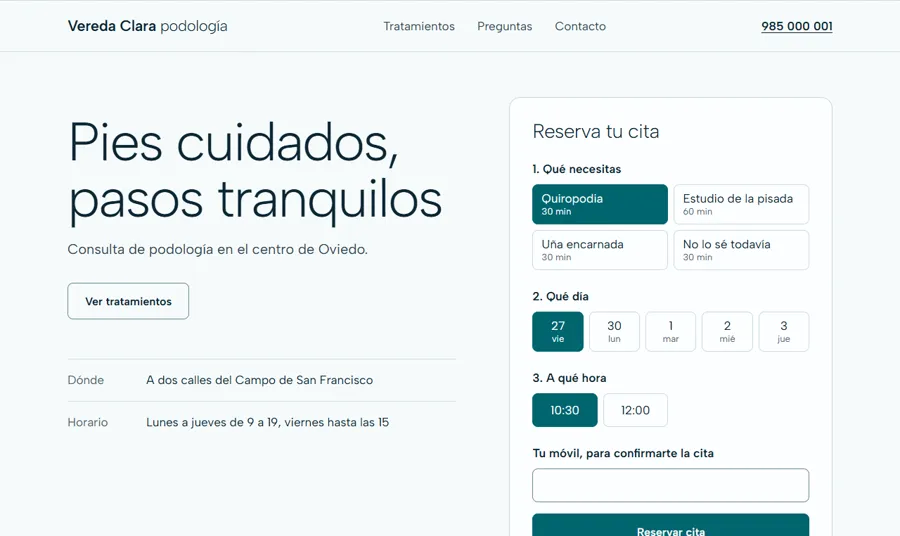
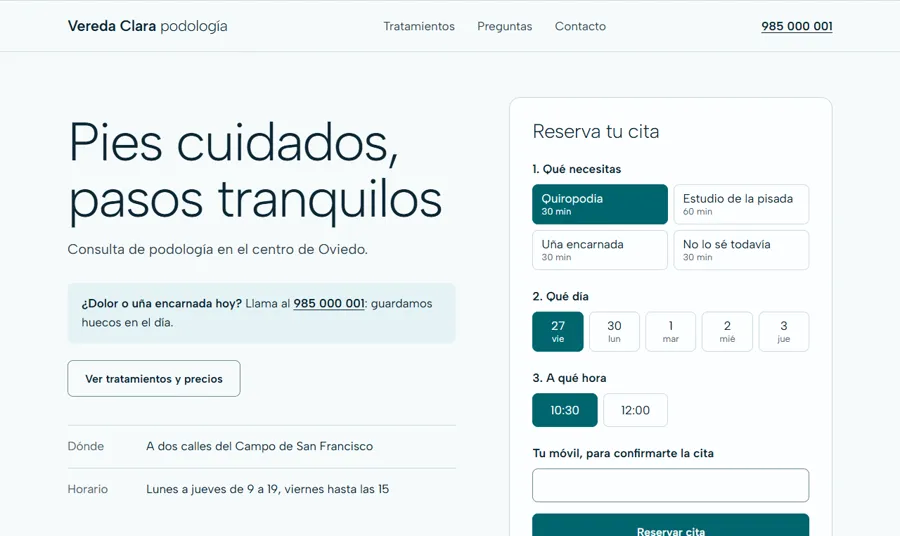
Publicar webs de ejemplo

diff --git a/fisio/index.html b/fisio/index.html
@@ -57,42 +57,21 @@
 
     <section class="zonas" aria-labelledby="zonas-t">
       <div class="wrap">
-        <h2 id="zonas-t">¿Dónde te molesta?</h2>
-        <p class="lead">Elige una zona y mira cómo la solemos trabajar.</p>
-        <div class="chips" role="tablist" aria-label="Zona del cuerpo" hidden>
-          <button type="button" role="tab" id="t-lumbar" aria-controls="z-lumbar" aria-selected="true">Zona lumbar</button>
-          <button type="button" role="tab" id="t-cuello" aria-controls="z-cuello" aria-selected="false" tabindex="-1">Cuello</button>
-          <button type="button" role="tab" id="t-hombro" aria-controls="z-hombro" aria-selected="false" tabindex="-1">Hombro</button>
-          <button type="button" role="tab" id="t-rodilla" aria-controls="z-rodilla" aria-selected="false" tabindex="-1">Rodilla</button>
-          <button type="button" role="tab" id="t-pelvis" aria-controls="z-pelvis" aria-selected="false" tabindex="-1">Suelo pélvico</button>
-        </div>
-        <div class="panels">
-          <article class="panel" id="z-lumbar">
-            <h3>Lumbago, ciática y la espalda de oficina</h3>
-            <p>Primero bajamos el dolor con terapia manual. Después, tres o cuatro ejercicios para casa que caben en diez minutos, para que no vuelva cada dos meses.</p>
-            <a class="btn" href="https://wa.me/34600000000?text=Hola%2C%20me%20duele%20la%20zona%20lumbar%20y%20quer%C3%ADa%20cita." rel="noopener">Pedir cita para la lumbar</a>
-          </article>
-          <article class="panel" id="z-cuello">
-            <h3>Cervicales cargadas, dolor de cabeza y mandíbula</h3>
-            <p>Valoramos cuello, hombros y mordida juntos. Muchas cefaleas que parecen de la vista vienen de aquí.</p>
-            <a class="btn" href="https://wa.me/34600000000?text=Hola%2C%20tengo%20molestias%20en%20el%20cuello%20y%20quer%C3%ADa%20cita." rel="noopener">Pedir cita para el cuello</a>
-          </article>
-          <article class="panel" id="z-hombro">
-            <h3>Cuando levantar el brazo ya se nota</h3>
-            <p>Tendinopatías, hombro congelado o recuperación tras una operación. Vamos subiendo carga poco a poco y medimos cuánto recorrido ganas.</p>
-            <a class="btn" href="https://wa.me/34600000000?text=Hola%2C%20me%20molesta%20el%20hombro%20y%20quer%C3%ADa%20cita." rel="noopener">Pedir cita para el hombro</a>
-          </article>
-          <article class="panel" id="z-rodilla">
-            <h3>Rodillas de correr, de escaleras y de quirófano</h3>
-            <p>Si sales a correr por el Naranco o vienes de una rotura de ligamento, preparamos la vuelta por fases y con fechas realistas.</p>
-            <a class="btn" href="https://wa.me/34600000000?text=Hola%2C%20es%20la%20rodilla%2C%20quer%C3%ADa%20cita." rel="noopener">Pedir cita para la rodilla</a>
-          </article>
-          <article class="panel" id="z-pelvis">
-            <h3>Embarazo, posparto y pérdidas</h3>
-            <p>En una sala aparte y sin prisa. Te explicamos cada paso antes de hacerlo y tú decides hasta dónde.</p>
-            <a class="btn" href="https://wa.me/34600000000?text=Hola%2C%20quer%C3%ADa%20una%20valoraci%C3%B3n%20de%20suelo%20p%C3%A9lvico." rel="noopener">Pedir valoración</a>
-          </article>
-        </div>
+        <dl class="datos">
+          <div><dt>Primera visita</dt><dd>45 €</dd></div>
+          <div><dt>Dura</dt><dd>Una hora</dd></div>
+          <div><dt>Volante médico</dt><dd>No hace falta</dd></div>
+        </dl>
+        <h2 id="zonas-t">Por lo que más nos llaman</h2>
+        <ul class="motivos">
+          <li><h3>Lumbago y ciática</h3><p>Bajar el dolor y que no vuelva cada dos meses.</p></li>
+          <li><h3>Cuello y dolor de cabeza</h3><p>Muchas horas de pantalla, mandíbula apretada.</p></li>
+          <li><h3>Hombro y rodilla</h3><p>Tendones, esguinces y vuelta tras una operación.</p></li>
+          <li><h3>Lesiones de correr</h3><p>Volver a entrenar por fases y con fechas realistas.</p></li>
+          <li><h3>Embarazo y posparto</h3><p>Suelo pélvico, en sala aparte y sin prisa.</p></li>
+          <li><h3>Personas mayores</h3><p>Equilibrio, cadera y visitas a domicilio.</p></li>
+        </ul>
+        <a class="btn" href="https://wa.me/34600000000?text=Hola%2C%20quer%C3%ADa%20saber%20si%20pod%C3%A9is%20tratar%20lo%20m%C3%ADo." rel="noopener">¿Lo tuyo no está? Pregúntanos</a>
       </div>
     </section>
 
@@ -194,7 +173,7 @@
     <div class="wrap">
       <p class="brand">Antojana<span>fisioterapia y osteopatía</span></p>
       <p>Calle de la Antojana, 4, Oviedo. <a href="mailto:hola@example.com">hola@example.com</a></p>
-      <p>Web de ejemplo hecha por Darío Morales. Antojana no existe: nombres, teléfonos, precios y reseñas son inventados. En la web real irían el aviso legal y la privacidad.</p>
+      <p>Web de ejemplo hecha por Darío Morales Riega. Antojana no existe: nombres, teléfonos, precios y reseñas son inventados. En la web real irían el aviso legal y la privacidad.</p>
       <p class="credits" data-credits>Fotografías: <a href="https://commons.wikimedia.org/wiki/File:Ostentrop_Germany_Chanchai-Thaimassage-10.jpg">CEphoto, Uwe Aranas (CC BY-SA 3.0)</a>, <a href="https://commons.wikimedia.org/wiki/File:Ostentrop_Germany_Chanchai-Thaimassage-05.jpg">CEphoto, Uwe Aranas (CC BY-SA 3.0)</a>. Redimensionadas y recortadas.</p>
     </div>
   </footer>

diff --git a/fisio/styles.css b/fisio/styles.css
@@ -1,4 +1,4 @@
-/* Hallmark · custom · genre: editorial · Antojana (fisio) · warm cream, terracotta, moss · Young Serif + Figtree · hero: stage with arched photo · signature: body-zone switcher */
+/* Hallmark · custom · genre: editorial · Antojana (fisio) · warm cream, terracotta, moss · Young Serif + Figtree · hero: stage with arched photo · signature: arched photo and warm bands */
 @font-face { font-family: "Young Serif"; src: url("fonts/youngserif-400.woff2") format("woff2"); font-weight: 400; font-display: swap; }
 @font-face { font-family: "Figtree"; src: url("fonts/figtree-400_700.woff2") format("woff2"); font-weight: 400 700; font-display: swap; }
 
@@ -71,19 +71,13 @@ a:focus-visible, button:focus-visible, [tabindex]:focus-visible { outline: 3px s
 .arch img { object-position: 50% 55%; }
 
 .zonas { background: var(--color-paper-2); padding-block: var(--section); }
-.chips { display: flex; flex-wrap: wrap; gap: 10px; margin-top: 40px; }
-.chips[hidden] { display: none; }
-.chips button { min-height: 48px; padding: 0 22px; border-radius: var(--radius-pill); border: 2px solid var(--color-rule); background: var(--color-card); color: var(--color-ink); font: 600 1rem var(--font-body); cursor: pointer; transition: background-color 180ms var(--ease-out); }
-.chips button:hover { border-color: var(--color-accent); }
-.chips button[aria-selected="true"] { background: var(--color-moss); border-color: var(--color-moss); color: var(--color-accent-ink); }
-.panels { display: grid; gap: 16px; margin-top: 24px; }
-.panel { background: var(--color-card); border-radius: var(--radius-card); padding: clamp(24px, 4vw, 48px); }
-.panel h3 { font-size: clamp(1.5rem, 2.8vw, 2.2rem); max-width: 26ch; }
-.panel p { margin-top: 16px; max-width: 58ch; font-size: 1.15rem; }
-.panel .btn { margin-top: 28px; }
-.js .panel { animation: settle 320ms var(--ease-out); }
-.panel[hidden] { display: none; }
-@keyframes settle { from { opacity: 0; transform: translateY(8px); } }
+.datos { display: grid; grid-template-columns: repeat(3, minmax(0, 1fr)); gap: 16px; margin: 0 0 64px; }
+.datos div { background: var(--color-card); border-radius: var(--radius-card); padding: 24px; }
+.datos dt { color: var(--color-muted); }
+.datos dd { margin: 4px 0 0; font: 400 clamp(1.6rem, 3vw, 2.4rem)/1.2 var(--font-display); color: var(--color-ink); }
+.motivos { list-style: none; padding: 0; margin: 40px 0; display: grid; grid-template-columns: repeat(3, minmax(0, 1fr)); column-gap: 40px; }
+.motivos li { border-top: 2px solid var(--color-rule); padding-block: 20px 28px; }
+.motivos p { margin-top: 8px; }
 
 .split { display: grid; grid-template-columns: minmax(0, 5fr) minmax(0, 7fr); gap: clamp(32px, 6vw, 96px); align-items: start; }
 .tarifas { padding-block: var(--section); }
@@ -152,7 +146,7 @@ address { font: 400 1.5rem/1.45 var(--font-display); color: var(--color-ink); ma
   .hero__in, .split { grid-template-columns: minmax(0, 1fr); }
   .hero__in { gap: 40px; }
   .arch { justify-self: center; max-height: none; min-height: 0; }
-  .people, .steps, .quotes { grid-template-columns: minmax(0, 1fr); }
+  .datos, .motivos, .people, .steps, .quotes { grid-template-columns: minmax(0, 1fr); }
   .quote--big { grid-row: auto; }
   .photo { aspect-ratio: 4 / 3; }
   .bar { display: grid; grid-template-columns: 1fr 1fr; gap: 8px; position: fixed; inset: auto 0 0 0; z-index: 300; padding: 10px 12px calc(10px + env(safe-area-inset-bottom)); background: var(--color-card); border-top: 1px solid var(--color-rule); }
@@ -160,6 +154,5 @@ address { font: 400 1.5rem/1.45 var(--font-display); color: var(--color-ink); ma
 }
 @media (prefers-reduced-motion: reduce) {
   html { scroll-behavior: auto; }
-  .js .panel { animation: none; }
-  .btn, .chips button { transition: none; }
+  .btn { transition: none; }
 }

diff --git a/reformas/index.html b/reformas/index.html
@@ -29,6 +29,7 @@
       <a class="brand" href="#contenido">Llábana <span>reformas</span></a>
       <nav aria-label="Principal">
         <a href="#obras">Obras</a>
+        <a href="#precios">Precios</a>
         <a href="#proceso">Cómo trabajamos</a>
         <a href="#zonas">Zonas</a>
       </nav>
@@ -99,6 +100,31 @@
             <p>El suelo que no se ve es el que hace que no suene una baldosa dentro de cinco años.</p>
             <a class="btn" href="#presupuesto">Cuéntanos tu obra</a>
           </div>
+        </div>
+      </div>
+    </section>
+
+    <section class="prices" id="precios" aria-labelledby="pr-t">
+      <div class="wrap two">
+        <div>
+          <h2 id="pr-t">Cuánto cuesta</h2>
+          <p class="lead">Precios de ejemplo para que te hagas una idea.</p>
+          <dl class="from">
+            <div><dt>Baño completo</dt><dd>desde 4.800 €</dd></div>
+            <div><dt>Cocina</dt><dd>desde 8.500 €</dd></div>
+            <div><dt>Piso entero</dt><dd>desde 850 €/m²</dd></div>
+          </dl>
+        </div>
+        <div class="includes">
+          <h3>En el presupuesto, por escrito</h3>
+          <ul>
+            <li>Cada partida con su precio</li>
+            <li>Qué materiales entran y de qué calidad</li>
+            <li>Lo que no está incluido, para que no haya sorpresas</li>
+            <li>Fecha de inicio y de entrega</li>
+            <li>Licencia o comunicación al ayuntamiento, la tramitamos nosotros</li>
+            <li>Retirada de escombros y limpieza final</li>
+          </ul>
         </div>
       </div>
     </section>
@@ -192,7 +218,7 @@
   <footer class="foot">
     <div class="wrap">
       <p class="brand">Llábana <span>reformas</span></p>
-      <p>Web de ejemplo hecha por Darío Morales. Llábana no existe: nombre, dirección, teléfonos, obras y plazos son inventados. En la web real irían el aviso legal y la privacidad.</p>
+      <p>Web de ejemplo hecha por Darío Morales Riega. Llábana no existe: nombre, dirección, teléfonos, obras y plazos son inventados. En la web real irían el aviso legal y la privacidad.</p>
       <p class="credits" data-credits>Fotografías: <a href="https://commons.wikimedia.org/wiki/File:Kitchen_layout_inside_new_two-bedroom_seasonal_housing_unit_(50343213866).jpg">YellowstoneNPS</a> (cocina), <a href="https://commons.wikimedia.org/wiki/File:Seasonal_employee_housing_bathroom_before_renovation_(50014558717).jpg">YellowstoneNPS</a> (antes), <a href="https://commons.wikimedia.org/wiki/File:Seasonal_employee_housing_bathroom_after_renovation_(50014557962).jpg">YellowstoneNPS</a> (después), las tres de dominio público; <a href="https://commons.wikimedia.org/wiki/File:Modern_kitchen_and_dining_area_in_a_simple_home_setting_showing_light_colors_and_minimal_decor.jpg">Shixart1985</a> (CC BY 2.0); <a href="https://commons.wikimedia.org/wiki/File:Using_a_trowel_to_lay_floor_tiles.jpg">Francisco Gonzalez</a> (CC BY 2.0); <a href="https://commons.wikimedia.org/wiki/File:US_Navy_070721-N-9195K-055_Steelworker_3rd_Class_Jason_Tinkman_of_Navy_Mobile_Construction_Battalion_(NMCB)_7_lays_down_grout_before_placing_floor_tiles_during_an_engineering_civic_action_program_conducted_at_An_Khe_Clinic_in_s.jpg">U.S. Navy</a> (dominio público). Redimensionadas y recortadas.</p>
     </div>
   </footer>

diff --git a/index.html b/index.html
@@ -67,7 +67,7 @@
           <p>Limpia y serena: reserva online lo primero y las dudas resueltas.</p>
           <details>
             <summary>Por qué está hecha así</summary>
-            <dl><div><dt>Reservar es lo primero que se ve</dt><dd>Cuantos menos pasos, más citas. Y quien busca de noche reserva sin esperar a que abráis.</dd></div><div><dt>Tratamientos con su nombre</dt><dd>«Uña encarnada» o «estudio de la pisada» es lo que la gente escribe en Google.</dd></div><div><dt>Preguntas frecuentes</dt><dd>Quitan el miedo antes de venir y ahorran llamadas repetidas.</dd></div><div><dt>Colores claros y letra grande</dt><dd>Transmite limpieza y se lee bien a cualquier edad.</dd></div></dl>
+            <dl><div><dt>Reservar es lo primero que se ve</dt><dd>Cuantos menos pasos, más citas. Y quien busca de noche reserva sin esperar a que abráis.</dd></div><div><dt>Aviso para urgencias</dt><dd>Quien tiene dolor hoy no reserva para la semana que viene: llama.</dd></div><div><dt>Tratamientos con su nombre</dt><dd>«Uña encarnada» o «estudio de la pisada» es lo que la gente escribe en Google.</dd></div><div><dt>Preguntas frecuentes</dt><dd>Quitan el miedo antes de venir y ahorran llamadas repetidas.</dd></div><div><dt>Colores claros y letra grande</dt><dd>Transmite limpieza y se lee bien a cualquier edad.</dd></div></dl>
           </details>
           <a class="work__go" href="podologia/index.html">Abrir la web</a>
         </div>
@@ -79,7 +79,7 @@
           <p>Sólida y visual: antes y después, zonas y petición de presupuesto.</p>
           <details>
             <summary>Por qué está hecha así</summary>
-            <dl><div><dt>Antes y después</dt><dd>Nadie contrata una reforma sin ver cómo quedan las obras.</dd></div><div><dt>Presupuesto sin llamar</dt><dd>Muchos comparan por la noche. El formulario recoge lo justo para saber si la obra encaja.</dd></div><div><dt>Zonas donde trabajáis</dt><dd>Evita llamadas de fuera y ayuda a salir al buscar «reformas» más el nombre del concejo.</dd></div><div><dt>Cómo se trabaja, paso a paso</dt><dd>El miedo en una obra son los retrasos y los extras. Explicarlo genera confianza.</dd></div></dl>
+            <dl><div><dt>Antes y después</dt><dd>Nadie contrata una reforma sin ver cómo quedan las obras.</dd></div><div><dt>Precios «desde» y qué incluye</dt><dd>El miedo es al sobrecoste. Decirlo claro filtra curiosos y da confianza.</dd></div><div><dt>Presupuesto sin llamar</dt><dd>Muchos comparan por la noche. El formulario recoge lo justo para saber si la obra encaja.</dd></div><div><dt>Zonas donde trabajáis</dt><dd>Evita llamadas de fuera y ayuda a salir al buscar «reformas» más el nombre del concejo.</dd></div><div><dt>Cómo se trabaja, paso a paso</dt><dd>El miedo en una obra son los retrasos y los extras. Explicarlo genera confianza.</dd></div></dl>
           </details>
           <a class="work__go" href="reformas/index.html">Abrir la web</a>
         </div>

diff --git a/podologia/index.html b/podologia/index.html
@@ -42,7 +42,8 @@
         <div class="hero__text">
           <h1>Pies cuidados, pasos tranquilos</h1>
           <p class="lead">Consulta de podología en el centro de Oviedo.</p>
-          <a class="btn btn--quiet" href="#tratamientos">Ver tratamientos</a>
+          <p class="urgent"><strong>¿Dolor o uña encarnada hoy?</strong> Llama al <a href="tel:+34985000001">985 000 001</a>: guardamos huecos en el día.</p>
+          <a class="btn btn--quiet" href="#tratamientos">Ver tratamientos y precios</a>
           <dl class="facts">
             <div><dt>Dónde</dt><dd>A dos calles del Campo de San Francisco</dd></div>
             <div><dt>Horario</dt><dd>Lunes a jueves de 9 a 19, viernes hasta las 15</dd></div>
@@ -161,7 +162,7 @@
   <footer class="foot">
     <div class="wrap">
       <p class="brand">Vereda Clara <span>podología</span></p>
-      <p>Web de ejemplo hecha por Darío Morales. Vereda Clara no existe: nombre, dirección, teléfono y precios son inventados. En la web real irían el aviso legal, la privacidad y el número de colegiado.</p>
+      <p>Web de ejemplo hecha por Darío Morales Riega. Vereda Clara no existe: nombre, dirección, teléfono y precios son inventados. En la web real irían el aviso legal, la privacidad y el número de colegiado.</p>
       <p class="credits" data-credits>Fotografía: <a href="https://commons.wikimedia.org/wiki/File:Footloose_(8454059959).jpg">Western Arctic National Parklands (CC BY 2.0)</a>, redimensionada y recortada.</p>
     </div>
   </footer>

diff --git a/fisio/main.js b/fisio/main.js
@@ -1,36 +1,3 @@
-// Selector de zona del cuerpo. Sin JavaScript se ven todos los paneles.
-const lista = document.querySelector('[role="tablist"]');
-const tabs = [...lista.querySelectorAll('[role="tab"]')];
-const panel = (tab) => document.getElementById(tab.getAttribute('aria-controls'));
-
-function elegir(activa) {
-  tabs.forEach((tab) => {
-    const si = tab === activa;
-    tab.setAttribute('aria-selected', String(si));
-    tab.tabIndex = si ? 0 : -1;
-    panel(tab).hidden = !si;
-  });
-}
-
-tabs.forEach((tab) => {
-  panel(tab).setAttribute('role', 'tabpanel');
-  panel(tab).setAttribute('aria-labelledby', tab.id);
-  tab.addEventListener('click', () => {
-    document.documentElement.classList.add('js');
-    elegir(tab);
-  });
-});
-lista.addEventListener('keydown', (e) => {
-  const paso = { ArrowRight: 1, ArrowLeft: -1 }[e.key];
-  if (!paso) return;
-  const i = tabs.indexOf(document.activeElement);
-  const siguiente = tabs[(i + paso + tabs.length) % tabs.length];
-  siguiente.focus();
-  siguiente.click();
-});
-lista.hidden = false;
-elegir(tabs[0]);
-
 // Marca el día de hoy y dice si está abierto (hora de Oviedo).
 const horario = { 1: [570, 1230], 2: [570, 1230], 3: [570, 1230], 4: [570, 1230], 5: [570, 1230], 6: [600, 810] };
 const ahora = new Date(new Date().toLocaleString('en-US', { timeZone: 'Europe/Madrid' }));

diff --git a/reformas/styles.css b/reformas/styles.css
@@ -108,6 +108,15 @@ a { color: inherit; text-underline-offset: 3px; }
 .work--note { grid-column: span 2; justify-content: space-between; align-items: flex-start; gap: 24px; padding: 32px; background: var(--color-slate-2); }
 .work--note p { font-size: 1.6rem; font-weight: 700; font-stretch: 112%; line-height: 1.25; color: var(--color-white); }
 
+.prices { padding-block: var(--section) 0; }
+.from { margin: 32px 0 0; }
+.from div { display: flex; flex-wrap: wrap; justify-content: space-between; gap: 4px 16px; border-top: 2px solid var(--color-ink); padding-block: 16px; }
+.from dd { margin: 0; font-weight: 800; font-stretch: 112%; font-size: 1.35rem; color: var(--color-ink); }
+.includes { background: var(--color-slate); color: var(--color-on-slate); padding: clamp(24px, 4vw, 48px); }
+.includes h3 { color: var(--color-white); font-size: 1.5rem; }
+.includes ul { list-style: square; padding-left: 20px; margin: 24px 0 0; }
+.includes li { padding-block: 8px; }
+.includes li::marker { color: var(--color-accent); }
 .process { padding-block: var(--section); }
 .process ol { list-style: none; counter-reset: fase; margin: 0; padding: 0; display: grid; grid-template-columns: repeat(5, minmax(0, 1fr)); gap: 24px; }
 .process li { counter-increment: fase; border-top: 8px solid var(--color-ink); padding-top: 16px; }

diff --git a/podologia/styles.css b/podologia/styles.css
@@ -63,7 +63,9 @@ a { color: inherit; text-underline-offset: 3px; }
 .hero__in { display: grid; grid-template-columns: minmax(0, 6fr) minmax(0, 5fr); gap: clamp(32px, 6vw, 88px); align-items: start; }
 .hero__text { padding-top: 24px; }
 .hero__text .lead { margin-bottom: 32px; }
-.facts { margin: 56px 0 0; }
+.urgent { background: var(--color-paper-2); border-radius: var(--radius); padding: 16px 20px; margin-bottom: 24px; color: var(--color-ink); }
+.urgent a { font-weight: 600; white-space: nowrap; }
+.facts { margin: 40px 0 0; }
 .facts div { display: grid; grid-template-columns: 6rem minmax(0, 1fr); gap: 16px; padding-block: 16px; border-top: 1px solid var(--color-rule); }
 .facts dt { color: var(--color-muted); }
 .facts dd { margin: 0; color: var(--color-ink); }

diff --git a/estudio-sectores.md b/estudio-sectores.md
@@ -1,0 +1,25 @@
+# Estudio rápido de sectores (26/11/2026)
+
+Tres búsquedas web, no un estudio de mercado. **No hay datos sólidos** sobre qué pesa más al elegir; lo de abajo mezcla indicios de directorios y proveedores con criterio propio. Hay que contrastarlo preguntando a los primeros clientes (`plantillas/preguntas-visita.md`).
+
+## Fisioterapia
+- **Visto:** Doctoralia y Top Doctors enseñan precio de primera visita (ejemplos de 40 a 65 € en Barcelona y Valencia), opiniones y si hay reserva online. Muchas clínicas pequeñas dan cita por WhatsApp.
+- **Criterio:** quien busca quiere saber cuánto cuesta, cuánto dura, si le tratan lo suyo, dónde está y cuándo hay hueco. Nadie elige cita «por dónde le duele».
+- **En la web:** fuera el selector por zonas. Datos de la primera visita bajo la cabecera, motivos de consulta en una lista, precios, equipo, reseñas, horario y cómo llegar.
+
+## Podología
+- **Visto:** primera visita en torno a 30 €, estudio de la pisada ~55 € (anuncios sueltos de otras ciudades). La uña encarnada es consulta típica y se valora que atiendan rápido.
+- **Criterio:** hay dos visitantes: el que programa (reserva online) y el que tiene dolor hoy (teléfono).
+- **En la web:** reserva lo primero, aviso de urgencia con teléfono, tabla de precios y preguntas frecuentes.
+
+## Reformas
+- **Visto:** la confianza pesa más que bajar precios (Apliqa, 2026); se recomienda mirar web y reseñas; un buen presupuesto dice qué incluye y qué no. Reforma integral: 850 a 1.200 €/m² (El Español, 2026), no específico de Asturias.
+- **Criterio:** el miedo es al sobrecoste, al retraso y al papeleo (licencias).
+- **En la web:** obras reales primero, qué incluye el presupuesto, precios orientativos «desde» (los pone cada empresa), proceso, zonas y formulario.
+
+## Fuentes
+- https://www.doctoralia.es/fisioterapeuta
+- https://www.topdoctors.es/una-encarnada/
+- https://www.interempresas.net/banyo/633407-El-reformista-lo-que-los-datos-revelan-sobre-como-decide-donde-compra-y-que-valora.html
+- https://www.cronoshare.com/blog/que-debe-de-figurar-en-un-buen-presupuesto/
+- https://www.elespanol.com/sociedad/20260730/jose-ramon-garcia-arquitecto-reformar-casa-tamano-precio-eur-tarda-meses/1003744336742_0.amp.html
